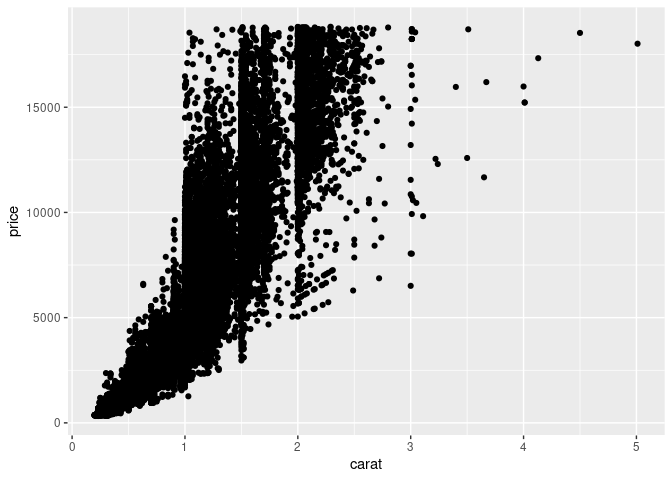
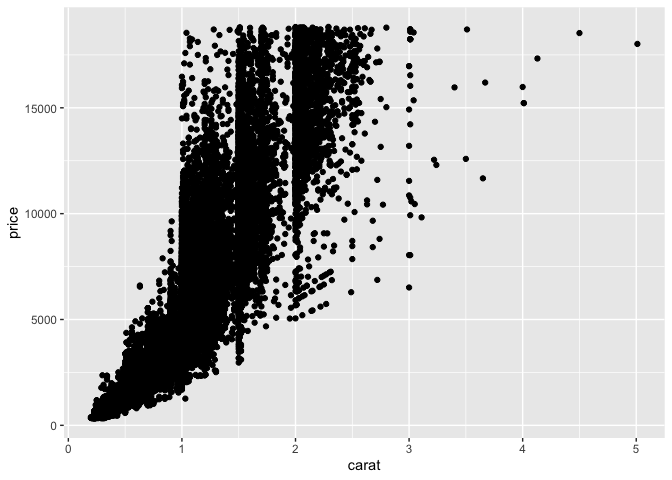
revised c00 diamonds complete

diff --git a/challenges/c00-diamonds-assignment.md b/challenges/c00-diamonds-assignment.md
@@ -74,10 +74,10 @@ library(tidyverse)
 ```
 
     ## ── Attaching core tidyverse packages ──────────────────────── tidyverse 2.0.0 ──
-    ## ✔ dplyr     1.1.4     ✔ readr     2.1.5
-    ## ✔ forcats   1.0.1     ✔ stringr   1.5.2
-    ## ✔ ggplot2   4.0.0     ✔ tibble    3.3.0
-    ## ✔ lubridate 1.9.4     ✔ tidyr     1.3.1
+    ## ✔ dplyr     1.2.1     ✔ readr     2.2.0
+    ## ✔ forcats   1.0.1     ✔ stringr   1.6.0
+    ## ✔ ggplot2   4.0.3     ✔ tibble    3.3.1
+    ## ✔ lubridate 1.9.5     ✔ tidyr     1.3.2
     ## ✔ purrr     1.2.2     
     ## ── Conflicts ────────────────────────────────────────── tidyverse_conflicts() ──
     ## ✖ dplyr::filter() masks stats::filter()
@@ -97,15 +97,13 @@ document your observations.
 
 ``` r
 ## TASK: Plot `price` vs `carat` below
-ggplot(
-  data = diamonds
-) +
-  geom_point(
+diamonds %>%
+  ggplot(
     mapping = aes(
-      y = price,
-      x = carat
-    )
-  )
+      x = carat,
+      y = price
+  )) +
+  geom_point()
 ```
 
 ![](c00-diamonds-assignment_files/figure-gfm/q1-task-1.png)<!-- -->
@@ -118,16 +116,14 @@ ggplot(
 
 ``` r
 ## TASK: Plot `price`, `carat`, and `cut` below
-ggplot(
-  data = diamonds
-) +
-  geom_point(
+diamonds %>%
+  ggplot(
     mapping = aes(
       y = price,
       x = carat,
       colour = cut
-    )
-  )
+  )) +
+  geom_point()
 ```
 
 ![](c00-diamonds-assignment_files/figure-gfm/q2-task-1.png)<!-- -->
